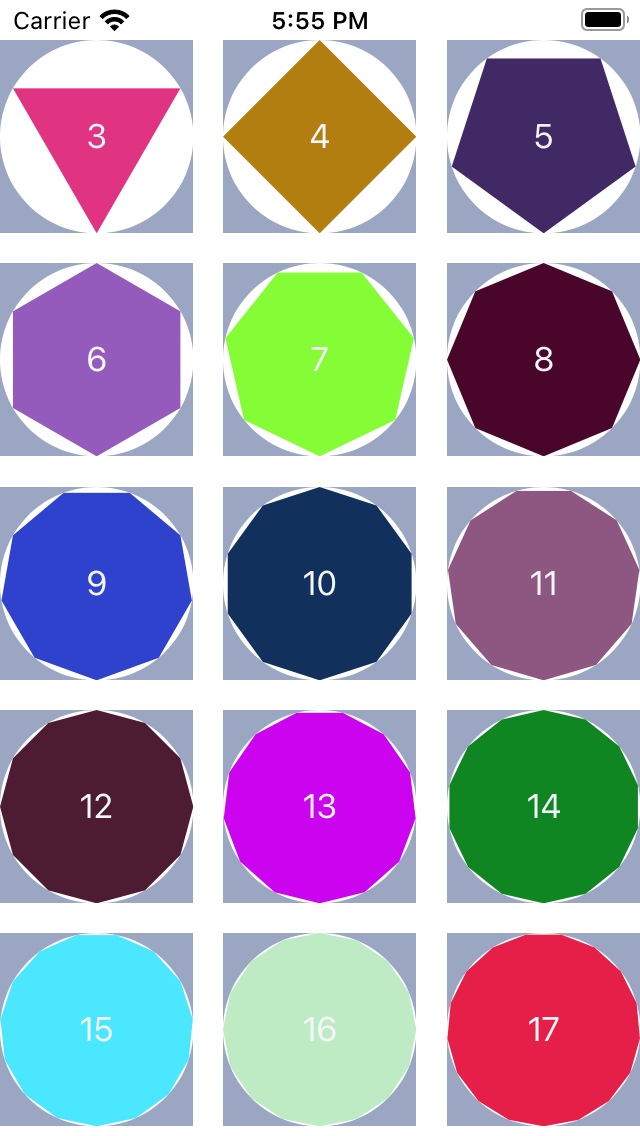
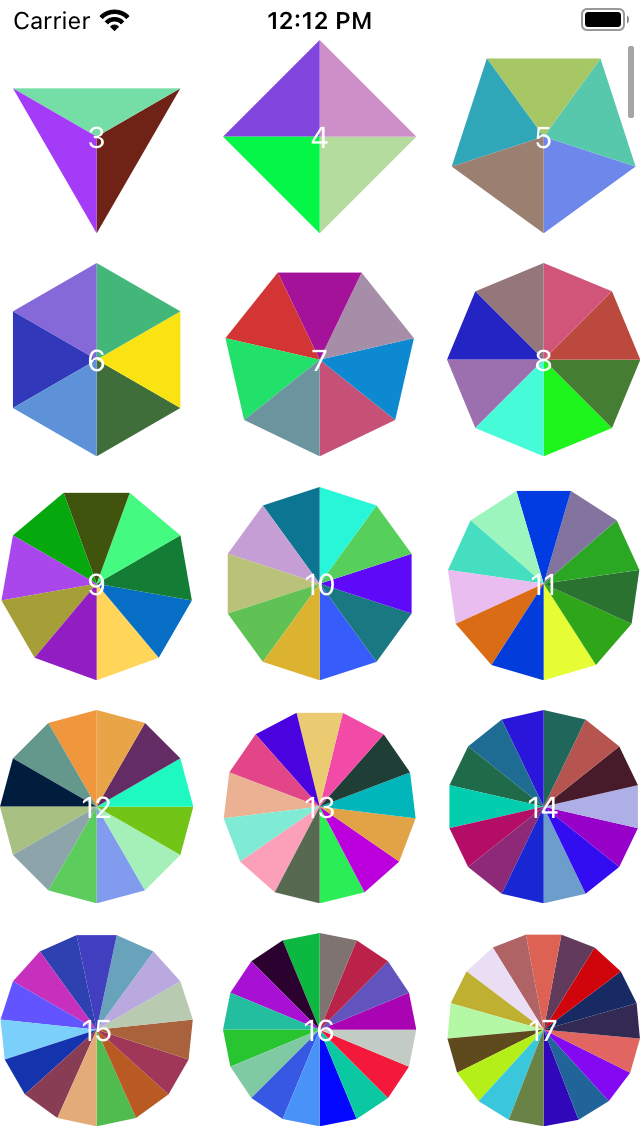
update

diff --git a/DrawDemo/DrawDemo/Draw.swift b/DrawDemo/DrawDemo/Draw.swift
@@ -9,20 +9,34 @@ import UIKit
 
 @IBDesignable
 class Draw:UIView{
-    private var _pointCount = 0
     @IBInspectable var drawWidth :CGFloat = 0.0
     @IBInspectable var drawHeight:CGFloat = 0.0
+    private var _pointCount = 0
     @IBInspectable var pointCount:Int {
         set{
             _pointCount = newValue
-            drawPolygon()
+//            drawPolygon()
         }
         get{
             return _pointCount
         }
     }
+
+    var _layerFillColor:[CGColor] = []
+    var layerFillColor:[CGColor]{
+        set{
+            _layerFillColor = newValue
+        }
+        get{
+            for layer in layer.sublayers ?? []{
+                if layer.isKind(of: CAShapeLayer.self){
+                    _layerFillColor.append((layer as! CAShapeLayer).fillColor ?? UIColor.red.cgColor)
+                }
+            }
+            return _layerFillColor
+        }
+    }
     func drawPolygon() {
-//        self.layoutIfNeeded()
         for layer in layer.sublayers ?? []{
             layer.removeFromSuperlayer()
         }
@@ -39,23 +53,26 @@ class Draw:UIView{
         }
 
         let circleRadius = CGFloat(drawWidth/2)
-        let path = UIBezierPath()
         let circleCenter = CGPoint(x:drawWidth/2,y:drawHeight/2);
-        path.move(to:circleCenter)
-        for index in 0...pointCount{
-            let angle = Double(360.0/Float(pointCount) * Float(index))
-            let sinus = CGFloat(sin(angle * Double.pi / 180))
-            let a = sinus * circleRadius
-            let cosinus = CGFloat(cos(angle * Double.pi / 180))
-            let b = cosinus * circleRadius
-            path.addLine(to: CGPoint(x:circleCenter.x+a,y:circleCenter.y+b))
+        for index in 0...pointCount-1{
+            let path = UIBezierPath()
+            path.move(to:circleCenter)
+            for i in 0...1{
+                let angle = Double(360.0/Float(pointCount) * Float(index+i))
+                let sinus = CGFloat(sin(angle * Double.pi / 180))
+                let a = sinus * circleRadius
+                let cosinus = CGFloat(cos(angle * Double.pi / 180))
+                let b = cosinus * circleRadius
+                path.addLine(to: CGPoint(x:circleCenter.x+a,y:circleCenter.y+b))
+            }
+            path.addLine(to:circleCenter)
+            path.close()
+            let shapeLayer = CAShapeLayer()
+            shapeLayer.path = path.cgPath
+            shapeLayer.strokeColor = UIColor.red.cgColor
+            shapeLayer.fillColor = _layerFillColor.count > index+1 ? _layerFillColor[index+1] : randomColor().cgColor
+            shapeLayer.lineWidth = 0
+            self.layer.addSublayer(shapeLayer)
         }
-        path.close()
-        let shapeLayer = CAShapeLayer()
-        shapeLayer.path = path.cgPath
-        shapeLayer.strokeColor = UIColor.red.cgColor
-        shapeLayer.fillColor = randomColor().cgColor
-        shapeLayer.lineWidth = 0
-        self.layer.addSublayer(shapeLayer)
     }
 }

diff --git a/DrawDemo/DrawDemo/ViewController.swift b/DrawDemo/DrawDemo/ViewController.swift
@@ -21,18 +21,19 @@ class ViewController: UIViewController,UICollectionViewDelegate,UICollectionView
     }
 
     func collectionView(_ collectionView: UICollectionView, numberOfItemsInSection section: Int) -> Int {
-        return 20
+        return 999
     }
     func collectionView(_ collectionView: UICollectionView, cellForItemAt
                             indexPath: IndexPath) -> UICollectionViewCell {
         let cell = collectionView.dequeueReusableCell(withReuseIdentifier: "CollectionCell", for: indexPath)
-        let draw = cell.subviews[0].subviews[0] as! Draw
+        
+        let draw = cell.viewWithTag(100) as! Draw
         draw.pointCount = indexPath.item + 3
         draw.drawWidth = cellWidth
         draw.drawHeight = cellWidth
         draw.drawPolygon()
-        let label = cell.subviews[0].subviews[1] as! UILabel
-        label.text = "\(draw.pointCount)"
+        let button = cell.viewWithTag(101) as! UIButton
+        button.setTitle("\(draw.pointCount)", for: .normal)
         return cell;
     }
     func collectionView(_ collectionView: UICollectionView, layout collectionViewLayout: UICollectionViewLayout, sizeForItemAt indexPath: IndexPath) -> CGSize{
@@ -42,6 +43,18 @@ class ViewController: UIViewController,UICollectionViewDelegate,UICollectionView
     }
     func collectionView(_ collectionView: UICollectionView, layout collectionViewLayout: UICollectionViewLayout, minimumLineSpacingForSectionAt section: Int) -> CGFloat {
         return cellGap
+    }
+    override func prepare(for segue: UIStoryboardSegue, sender: Any?) {
+        let but = sender as! UIButton
+        let draw = but.superview?.viewWithTag(100) as! Draw
+        let vc = segue.destination;
+        vc.view.layoutIfNeeded()
+        let vcDrawView = vc.view.viewWithTag(100) as! Draw
+        vcDrawView.layerFillColor = draw.layerFillColor
+        vcDrawView.pointCount = draw.pointCount
+        vcDrawView.drawWidth = vcDrawView.frame.size.width
+        vcDrawView.drawHeight = vcDrawView.frame.size.height
+        vcDrawView.drawPolygon()
     }
 }
 

diff --git a/Swift/MyPlayground.playground/Contents.swift b/Swift/MyPlayground.playground/Contents.swift
@@ -1,0 +1,7 @@
+import UIKit
+
+var str = "Hello, playground"
+
+for i in 0...3{
+    print("\(i)")
+}

diff --git a/ButtersCode/Classes/ButtersTool.m b/ButtersCode/Classes/ButtersTool.m
@@ -55,3 +55,8 @@ UIViewController* getTopViewController(void)
     }
     return rootVC;
 }
+
+
+id copyObject(id allObject){
+    return [NSKeyedUnarchiver unarchiveObjectWithData:[NSKeyedArchiver archivedDataWithRootObject:allObject]];
+}

diff --git a/ButtersCode/Classes/ButtersTool.h b/ButtersCode/Classes/ButtersTool.h
@@ -109,3 +109,7 @@ void runtimeReplaceFunctionWithSelector(Class aClass,SEL origin,SEL swizzle,BOOL
 
 /**从UIWindow获取当前vc,调试阶段很实用*/
 UIViewController* getTopViewController(void);
+
+
+
+id copyObject(id allObject);

diff --git a/ButtersCode/Classes/NSObject+AC.h b/ButtersCode/Classes/NSObject+AC.h
@@ -1,0 +1,16 @@
+//
+//  NSObject+AC.h
+//  ButtersCode
+//
+//  Created by ac on 2022/6/30.
+//
+
+#import <Foundation/Foundation.h>
+
+NS_ASSUME_NONNULL_BEGIN
+
+@interface NSObject (AC)
+
+@end
+
+NS_ASSUME_NONNULL_END

diff --git a/ButtersCode/Classes/NSObject+AC.m b/ButtersCode/Classes/NSObject+AC.m
@@ -1,0 +1,12 @@
+//
+//  NSObject+AC.m
+//  ButtersCode
+//
+//  Created by ac on 2022/6/30.
+//
+
+#import "NSObject+AC.h"
+
+@implementation NSObject (AC)
+
+@end

diff --git a/DrawDemo/DrawDemo/DrawDemo-Bridging-Header.h b/DrawDemo/DrawDemo/DrawDemo-Bridging-Header.h
@@ -4,3 +4,5 @@
 
 //#import <ButtersCode/UIColor+hex.h>
 #import "UIColor+hex.h"
+#import "UIButton+Block.h"
+#include "ButtersTool.h"

diff --git a/README.md b/README.md
@@ -1,2 +1,10 @@
 # ButtersCode
 马先生平时写的各种小组件和小功能
+
+#无聊的三角形
+![Simulator Screen.png](https://raw.githubusercontent.com/Butters2334/ButtersCode/master/DrawDemo/Simulator%20Screen.png)
+
+
+#无聊的翻页器
+![Alt Text](https://raw.githubusercontent.com/Butters2334/ButtersCode/master/LabelPageTurning/Turning.gif)
+
